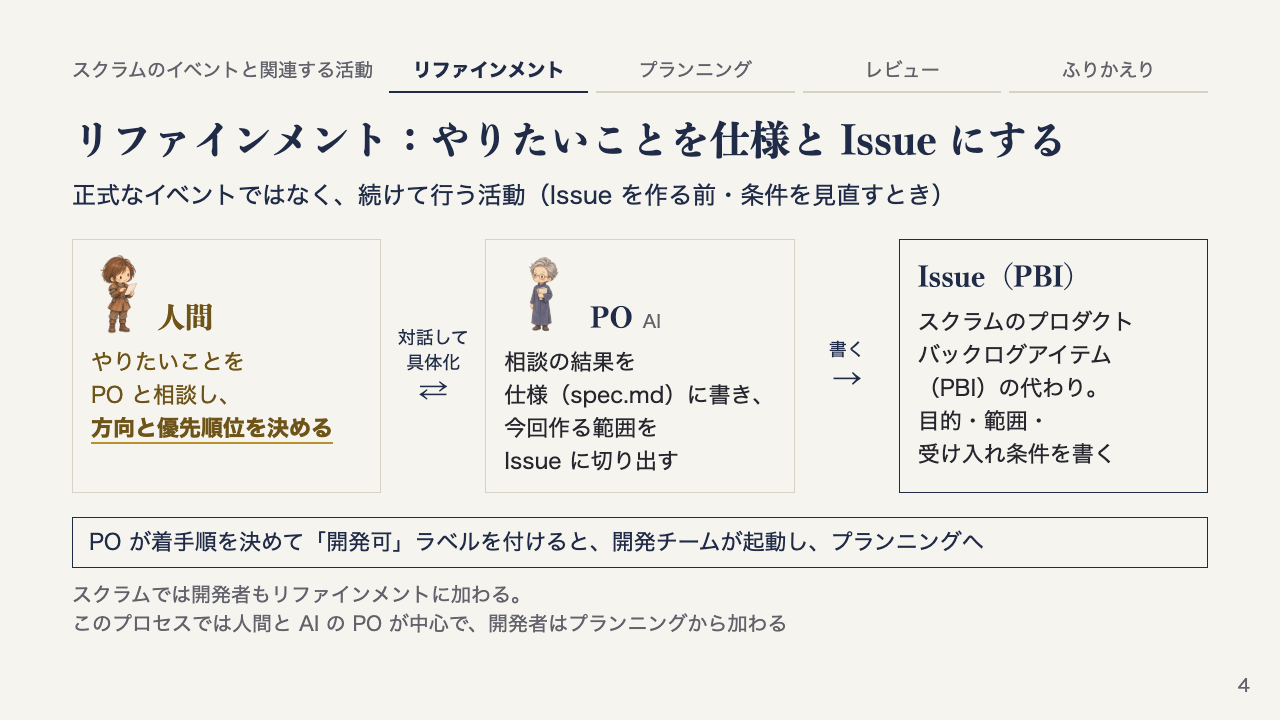
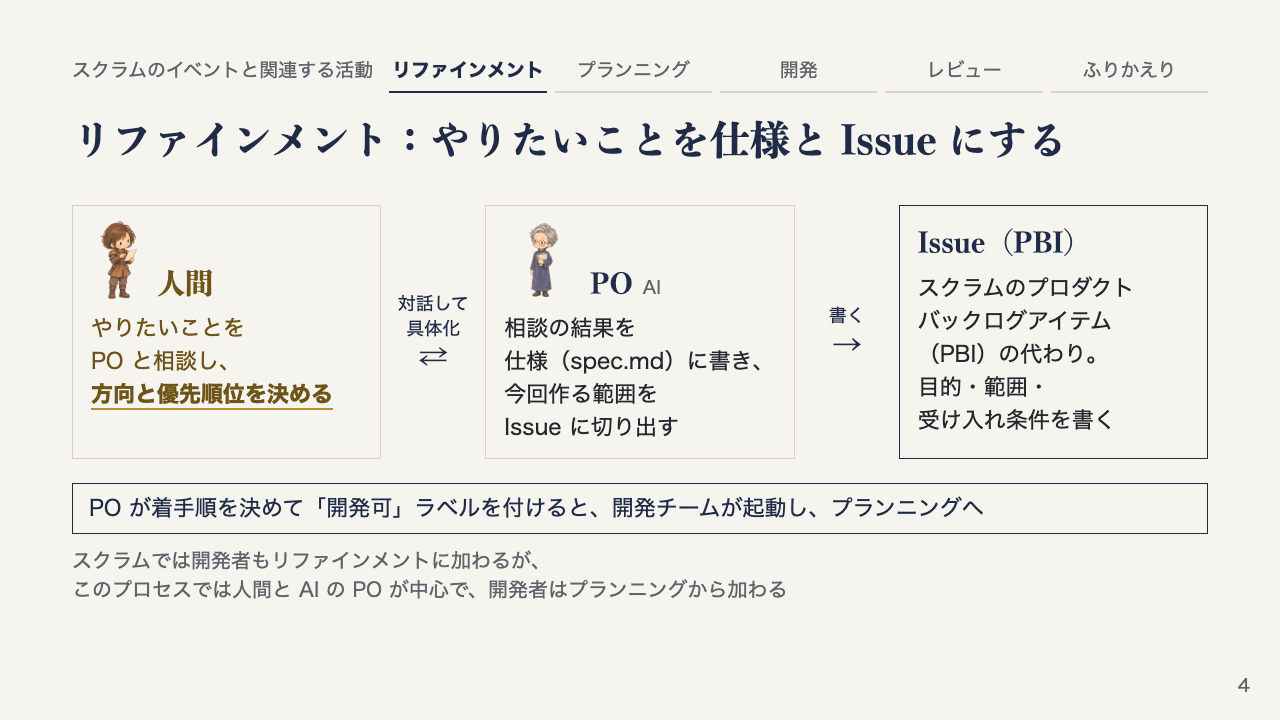
人間の実機確認を受けて活動の図を直し、開発の図を足して全17枚にする（#30）
- 4枚目: 見出しの下の位置づけの一文を削除し、その情報を本文・ノートから外す。最下部を「スクラムでは開発者もリファインメントに加わるが、」から次の行へつなぐ
- 5枚目: 開発者の枠を2つに分け、下の枠を「人間が承認すると、」で始める
- 6枚目に「開発」の図を追加（開発者2人の実装・検証と相互レビュー、開発チームの比較からレビューへ）
- 上端の活動の行を5つにし、枚数・ページ番号・接続文・aria-label・README・design.md・sources.md・テーマのコメントを全17枚へそろえる
- プレビュー画像を4〜8枚目に更新

diff --git a/themes/paper.css b/themes/paper.css
@@ -85,7 +85,7 @@ section.cover h1 {
 section.cover .keywords { font-size: 32px; color: var(--indigo); }
 section.cover .subtitle { font-size: 28px; margin-top: 16px; }
 
-/* 中表紙（Issue #27 で5枚目に追加。Issue #30 の後は8枚目）: 章の切り替えを、上の小さなラベル・藍の罫線・大きな見出しと余白で示す。金色は使わない */
+/* 中表紙（Issue #27 で5枚目に追加。Issue #30 の後は9枚目）: 章の切り替えを、上の小さなラベル・藍の罫線・大きな見出しと余白で示す。金色は使わない */
 section.chapter { justify-content: center; }
 section.chapter .chapter-label {
   align-self: flex-start;
@@ -244,7 +244,7 @@ section.overview .ov-wires { position: absolute; inset: 0; width: 1280px; height
   color: var(--indigo);
 }
 
-/* イベントの表（Issue #30 で4つの活動の図へ分けたため本編では未使用。他の発表用に残す。以前は4枚目）: スクラムのイベント・このプロセスで行うこと・次へ進むために決めること。人間が行う部分だけ金色の太字 */
+/* イベントの表（Issue #30 で5つの活動の図へ分けたため本編では未使用。他の発表用に残す。以前は4枚目）: スクラムのイベント・このプロセスで行うこと・次へ進むために決めること。人間が行う部分だけ金色の太字 */
 .event-lead {
   margin: -14px 0 22px;
   font-size: 26px;
@@ -291,7 +291,7 @@ table.events .judge { color: var(--gold-text); font-weight: 700; }
 /* イベントのページの末尾で実例へつなぐ1行（Issue #24 で三本柱のページから移した）。下端に収めるため上の余白を詰める */
 .event-note + .next { margin-top: 20px; padding-top: 12px; font-size: 24px; }
 
-/* 活動の図（4〜7枚目、Issue #30）: 上端に4つの活動の行、見出し、位置づけの一文、担当の枠を矢印でつなぐ図、次への接続、区別の注記。
+/* 活動の図（4〜8枚目、Issue #30）: 上端に5つの活動の行、見出し、位置づけの一文（4枚目にはない）、担当の枠を矢印でつなぐ図、次への接続、区別の注記。
  * 枠の間の矢印の上に受け渡すものを書く。人間の枠は金色の文字、人間の判断の語句だけ金の太字と金の下線 */
 .acts {
   display: flex;
@@ -314,7 +314,15 @@ table.events .judge { color: var(--gold-text); font-weight: 700; }
 .acts .now { color: var(--indigo); font-weight: 700; border-bottom-color: var(--indigo); }
 .acts + h2 { margin: 20px 0 10px; }
 .act-lead { margin-bottom: 26px; font-size: 24px; color: var(--indigo); }
+/* 位置づけの一文がないページ（4枚目）: 見出しと図の間を少し空ける */
+.acts + h2 + .act-flow { margin-top: 28px; }
 .act-flow { display: flex; align-items: stretch; }
+/* 同じ活動で別々に動く2人を、1列に2つの枠で示す（5枚目のプランニングの開発者）。枠の中は絵の右に役割名と行うこと */
+.act-pair { flex: 1.3 1 0; min-width: 0; display: flex; flex-direction: column; gap: 10px; }
+.act-pair .act-box.solo { flex: 1 1 auto; flex-direction: row; align-items: center; gap: 12px; padding: 8px 14px; }
+.act-box.solo > img { display: block; flex: none; width: 70px; height: 78px; object-fit: contain; margin: 0; background: transparent; }
+.act-box.solo h3 { margin: 0 0 4px; font-size: 26px; line-height: 1.3; }
+.act-box.solo p { font-size: 21px; line-height: 1.45; }
 .act-box {
   flex: 1 1 0;
   min-width: 0;
@@ -434,7 +442,7 @@ table.recap th {
 .example h3 { font-size: 28px; margin: 0 0 12px; }
 .example li + li { margin-top: 8px; }
 .example .meta { margin-top: 12px; font-size: 20px; }
-/* 実例で初めて出る用語の短い説明（Issue #24 で旧8枚目、#27 の後は9枚目、#30 の後は12枚目の Orca に使用）。表の下に1行で置く */
+/* 実例で初めて出る用語の短い説明（Issue #24 で旧8枚目、#27 の後は9枚目、#30 の後は13枚目の Orca に使用）。表の下に1行で置く */
 .general .term { margin-top: 14px; font-size: 20px; color: var(--muted); }
 
 table.duty {
@@ -468,7 +476,7 @@ table.duty tr.decide td {
   border-bottom: 2px solid var(--gold-rule);
 }
 table.duty tr.decide td { font-size: 26px; }
-/* 表の行を詰め、セルに20pxの補足行を置く（Issue #24 の PR #25 で12枚目（#30 の前は9枚目、#27 の前は8枚目）の「人間が決めること」に使用） */
+/* 表の行を詰め、セルに20pxの補足行を置く（Issue #24 の PR #25 で13枚目（#30 の前は9枚目、#27 の前は8枚目）の「人間が決めること」に使用） */
 table.duty.tight th,
 table.duty.tight td { padding-top: 8px; padding-bottom: 8px; }
 table.duty .sub { display: block; margin-top: 4px; font-size: 20px; line-height: 1.35; }
@@ -534,10 +542,10 @@ tr.decide .actors { flex-wrap: nowrap; align-items: center; }
   max-height: 270px;
   box-sizing: border-box;
 }
-/* 本文の下に置く小さい画像（9枚目の前提。#30 の前は6枚目）: 説明を画像の右に並べて高さを抑える */
+/* 本文の下に置く小さい画像（10枚目の前提。#30 の前は6枚目）: 説明を画像の右に並べて高さを抑える */
 .shots.phone.short .shot { display: flex; align-items: flex-end; gap: 16px; }
 .shots.phone.short img { max-height: 200px; flex: none; }
-/* 比較画像を大きく見せるページだけ、右の実例の列を広げる（14枚目。#30 の前は11枚目） */
+/* 比較画像を大きく見せるページだけ、右の実例の列を広げる（15枚目。#30 の前は11枚目） */
 .example.wide { flex-basis: 660px; }
 /* 往復の表（6行）: 高さに収めるため文字と余白を小さくする（docs/design.md） */
 table.duty.loop { font-size: 22px; }
@@ -546,7 +554,7 @@ table.duty.loop td { padding: 9px 10px; }
 table.duty.loop tr.decide td { font-size: 22px; }
 table.duty.loop b { color: var(--indigo); }
 table.duty.loop tr.decide b { color: var(--gold-text); }
-/* 2案の「触る前 → 選んだ直後」を案ごとに1行で並べる（14枚目。#30 の前は11枚目）。左に案名・版・違いの説明、右に前後の画像 */
+/* 2案の「触る前 → 選んだ直後」を案ごとに1行で並べる（15枚目。#30 の前は11枚目）。左に案名・版・違いの説明、右に前後の画像 */
 .shots.phone.pair { flex-direction: column; gap: 14px; }
 .shots.phone.pair .shot { display: flex; align-items: center; gap: 8px; }
 .shots.phone.pair .shot > div { flex: 0 0 168px; }

diff --git a/docs/sources.md b/docs/sources.md
@@ -60,7 +60,7 @@ Issue #9 で採用した次章（main `19656aa`）は、元テンプレートの
 - [条件変更のコメント](https://github.com/dyamada-jaki/overstrata-board/issues/37#issuecomment-6365106903)と [仕様更新 `3bac3e9`](https://github.com/dyamada-jaki/overstrata-board/commit/3bac3e9ed1b884765a3519157b634c1bb128e2e3): 人間の原文と条件3の変更。現行 Issue 本文だけで変更前の条件を推測しない。
 - [当初の PO 受け入れ（#41）](https://github.com/dyamada-jaki/overstrata-board/pull/41#issuecomment-6364548520)、[再レビュー（#40）](https://github.com/dyamada-jaki/overstrata-board/pull/40#issuecomment-6365375650)、[推薦変更](https://github.com/dyamada-jaki/overstrata-board/pull/40#issuecomment-6365395577)、[変更後の PO 受け入れ](https://github.com/dyamada-jaki/overstrata-board/pull/40#issuecomment-6365485501)、[実機確認の記録](https://github.com/dyamada-jaki/overstrata-board/pull/40#issuecomment-6365962809)。レポートと合わせ、発表ノートで対応付ける。
 - [採用コミット `e3311d4`](https://github.com/dyamada-jaki/overstrata-board/commit/e3311d43c6f125adec76eafe0d683e6d62fa74bb)、[改善 F/G 反映 `9b7eae7`](https://github.com/dyamada-jaki/overstrata-board/commit/9b7eae763cfc199080f09653f65c31a1cf01e072)、[完了と申し送り](https://github.com/dyamada-jaki/overstrata-board/issues/37#issuecomment-6366665330)。後の Issue の成果をこの時点での効果として混ぜない。
-- 画面の再現（Issue #17）: 9枚目（Issue #30 で導入の活動の図を足す前は6枚目、Issue #27 で中表紙を足す前は5枚目、Issue #24 で導入を絞る前は7枚目）は #37 着手前の main [`c276d11`](https://github.com/dyamada-jaki/overstrata-board/tree/c276d11e5da42c7664ffa41693d5c9cb762ac7d0)（#32 の PR #38 を取り込んだ版、全駒5マス固定）、14枚目（同11枚目・10枚目・12枚目）は比較した版 `526f8f8`・`b1902c4` を、公開リポジトリの新しい clone で起動して撮影した。表示幅は 375×667（元の実機比較・レビューと同じスマホ幅）。14枚目には、人間の実機確認を受けて各版の「触る前」（味方4・敵4を用意した直後）の画像を足し、同じ大きさで切り抜いた（#41 は前後で同じ矩形。#40 の触る前だけ、見出しが切れないよう位置を変えた。詳細は design.md・ノート。同じ手順で新しい clone から撮影）。操作と切り抜きは [design.md](design.md) の「画像の置き方」と各ページのノートに記録した。元プロジェクトの既存の clone・worktree・コンテナは使っていない。
+- 画面の再現（Issue #17）: 10枚目（Issue #30 で導入の活動の図を足す前は6枚目、Issue #27 で中表紙を足す前は5枚目、Issue #24 で導入を絞る前は7枚目）は #37 着手前の main [`c276d11`](https://github.com/dyamada-jaki/overstrata-board/tree/c276d11e5da42c7664ffa41693d5c9cb762ac7d0)（#32 の PR #38 を取り込んだ版、全駒5マス固定）、15枚目（同11枚目・10枚目・12枚目）は比較した版 `526f8f8`・`b1902c4` を、公開リポジトリの新しい clone で起動して撮影した。表示幅は 375×667（元の実機比較・レビューと同じスマホ幅）。15枚目には、人間の実機確認を受けて各版の「触る前」（味方4・敵4を用意した直後）の画像を足し、同じ大きさで切り抜いた（#41 は前後で同じ矩形。#40 の触る前だけ、見出しが切れないよう位置を変えた。詳細は design.md・ノート。同じ手順で新しい clone から撮影）。操作と切り抜きは [design.md](design.md) の「画像の置き方」と各ページのノートに記録した。元プロジェクトの既存の clone・worktree・コンテナは使っていない。
 - 元プロジェクトの実際の修正順序と、このスライド制作で採用している手順を区別する。条件変更の判断は人間、仕様更新は PO、修正と検証・推薦は開発者／開発チーム、最終的な採用は人間である。画像再現の際も元プロジェクトは変更しない。
 
 ## 使い方

diff --git a/README.md b/README.md
@@ -3,7 +3,7 @@
 [agent-dev-template](https://github.com/dyamada-jaki/agent-dev-template) の開発プロセスを、人に説明するための日本語スライドです。
 スライド自体も、Spec・Issue・Orca を使った同じプロセスで少しずつ制作します。
 
-現在の原稿は、LT の導入7枚（表紙・全体図・役割分担と、スクラムのイベントと関連する4つの活動の図）、実例へ切り替える中表紙1枚、実例で Issue 1本の流れを説明する8枚の全16枚です。各ページの発表ノートの時間は見積もりで、Issue #30 で導入を4枚から7枚にした後の全体の時間は、まだ見積もり直し・実測をしていません。見た目は共通デザイン（[themes/paper.css](themes/paper.css)、使い方は [docs/design.md](docs/design.md)）でそろえています。
+現在の原稿は、LT の導入8枚（表紙・全体図・役割分担と、スクラムのイベントと関連する5つの活動の図）、実例へ切り替える中表紙1枚、実例で Issue 1本の流れを説明する8枚の全17枚です。各ページの発表ノートの時間は見積もりで、Issue #30 で導入を4枚から8枚にした後の全体の時間は、まだ見積もり直し・実測をしていません。見た目は共通デザイン（[themes/paper.css](themes/paper.css)、使い方は [docs/design.md](docs/design.md)）でそろえています。
 
 [**最新版の PDF を開く**](docs/pdf/agent-dev-slide.pdf)（[生成元・対象版](docs/pdf/README.md)）
 
